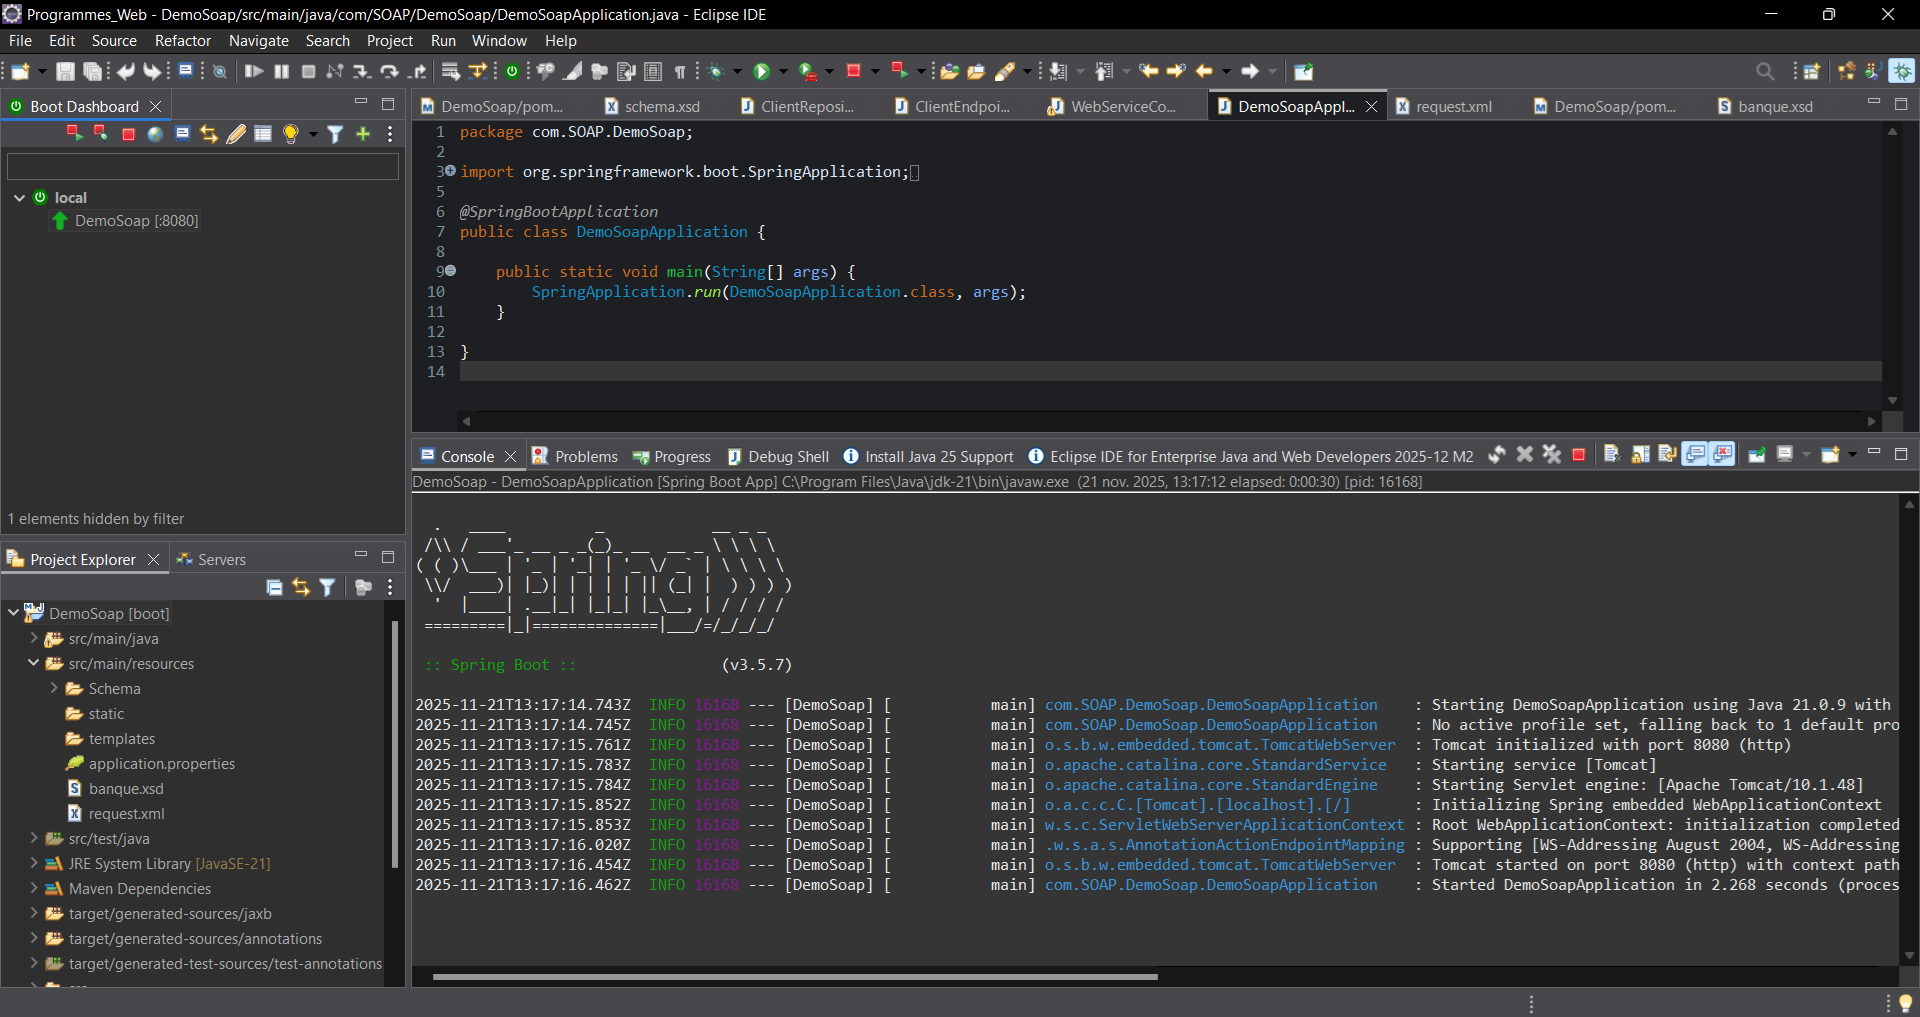
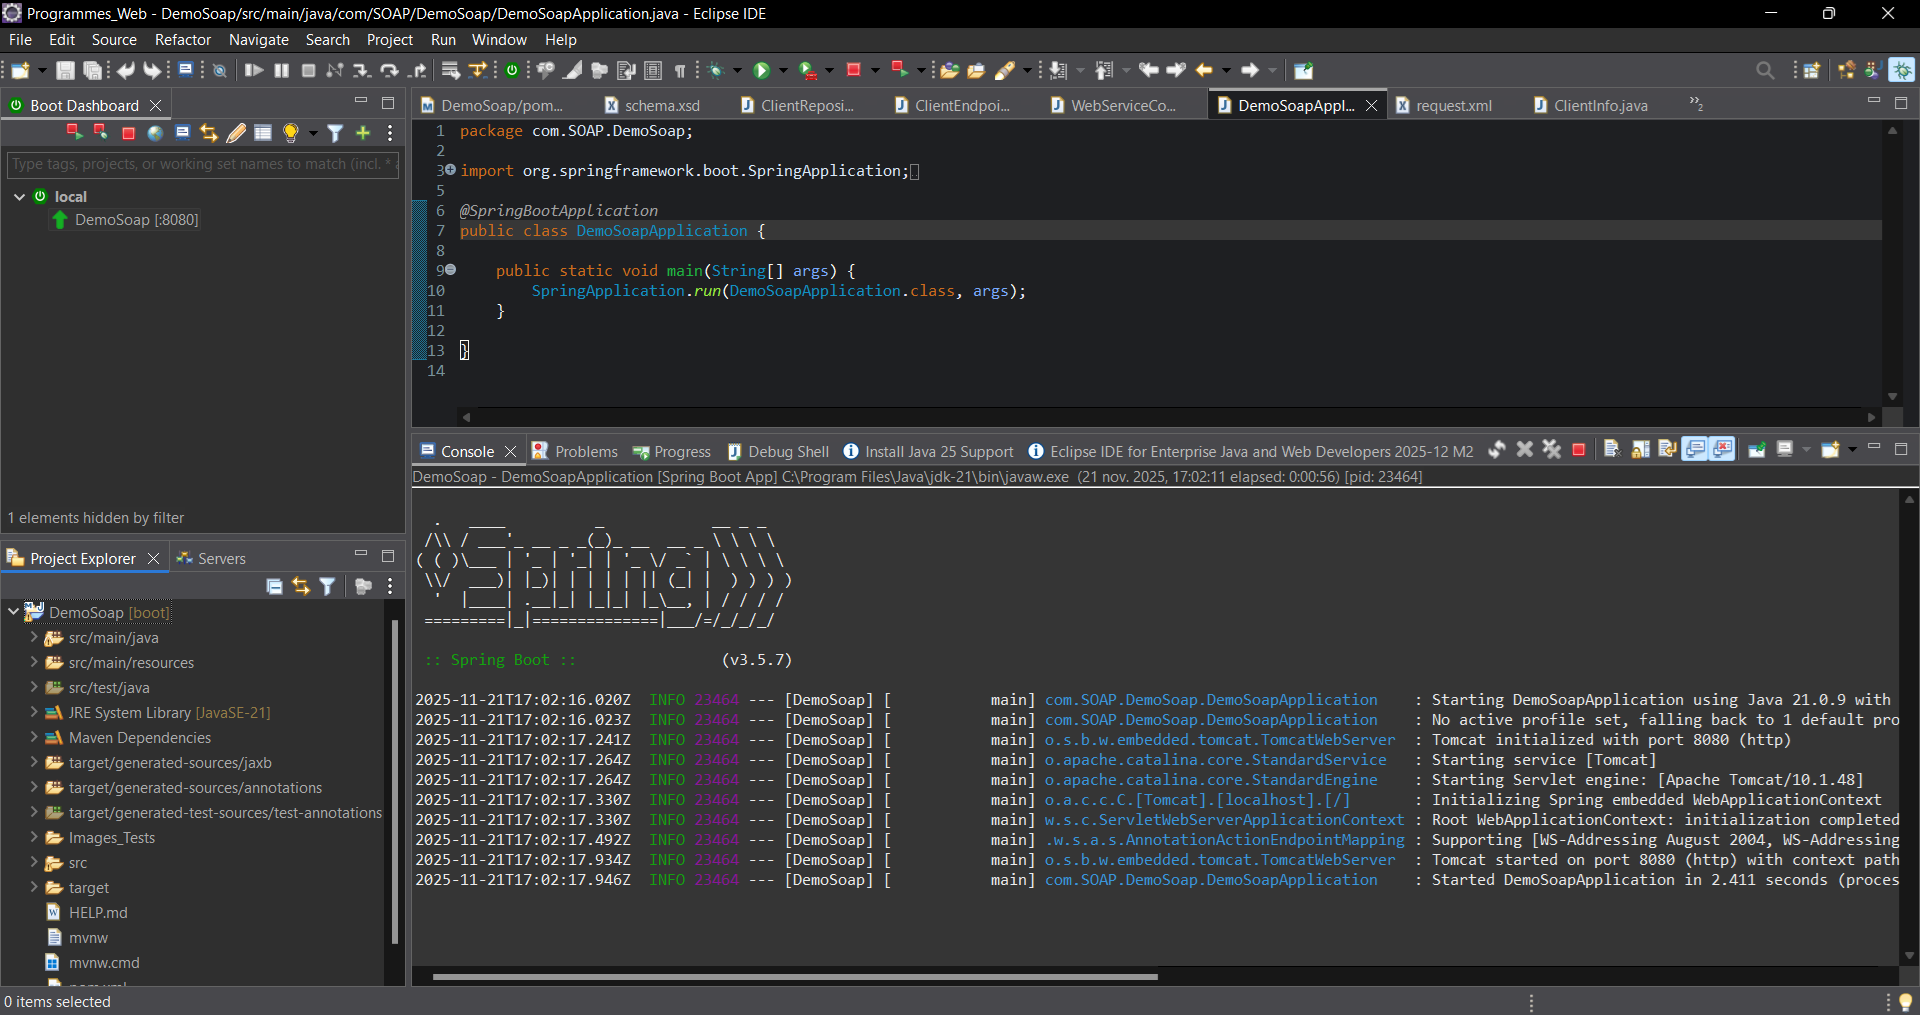
neuvieme code

diff --git a/src/main/java/com/SOAP/DemoSoap/ClientEndpoint.java b/src/main/java/com/SOAP/DemoSoap/ClientEndpoint.java
@@ -3,16 +3,17 @@ package com.SOAP.DemoSoap;
 import org.springframework.ws.server.endpoint.annotation.Endpoint;
 import org.springframework.ws.server.endpoint.annotation.PayloadRoot;
 import org.springframework.ws.server.endpoint.annotation.ResponsePayload;
+import com.esmt.banque.ClientInfo;
 
 @Endpoint
 public class ClientEndpoint {
 
     @PayloadRoot(namespace = "http://esmt.banque", localPart = "getClientInfoRequest")
     @ResponsePayload
-    public String getClientInfo() {
-        return "<clientInfo xmlns=\"http://esmt.banque\">" +
-               "    <numeroTel>777777777</numeroTel>" +
-               "    <solde>333333333</solde>" +
-               "</clientInfo>";
+    public ClientInfo getClientInfo() {
+        ClientInfo client = new ClientInfo();
+        client.setNumeroTel(777777777L);
+        client.setSolde(333333333L);
+        return client;
     }
 }
